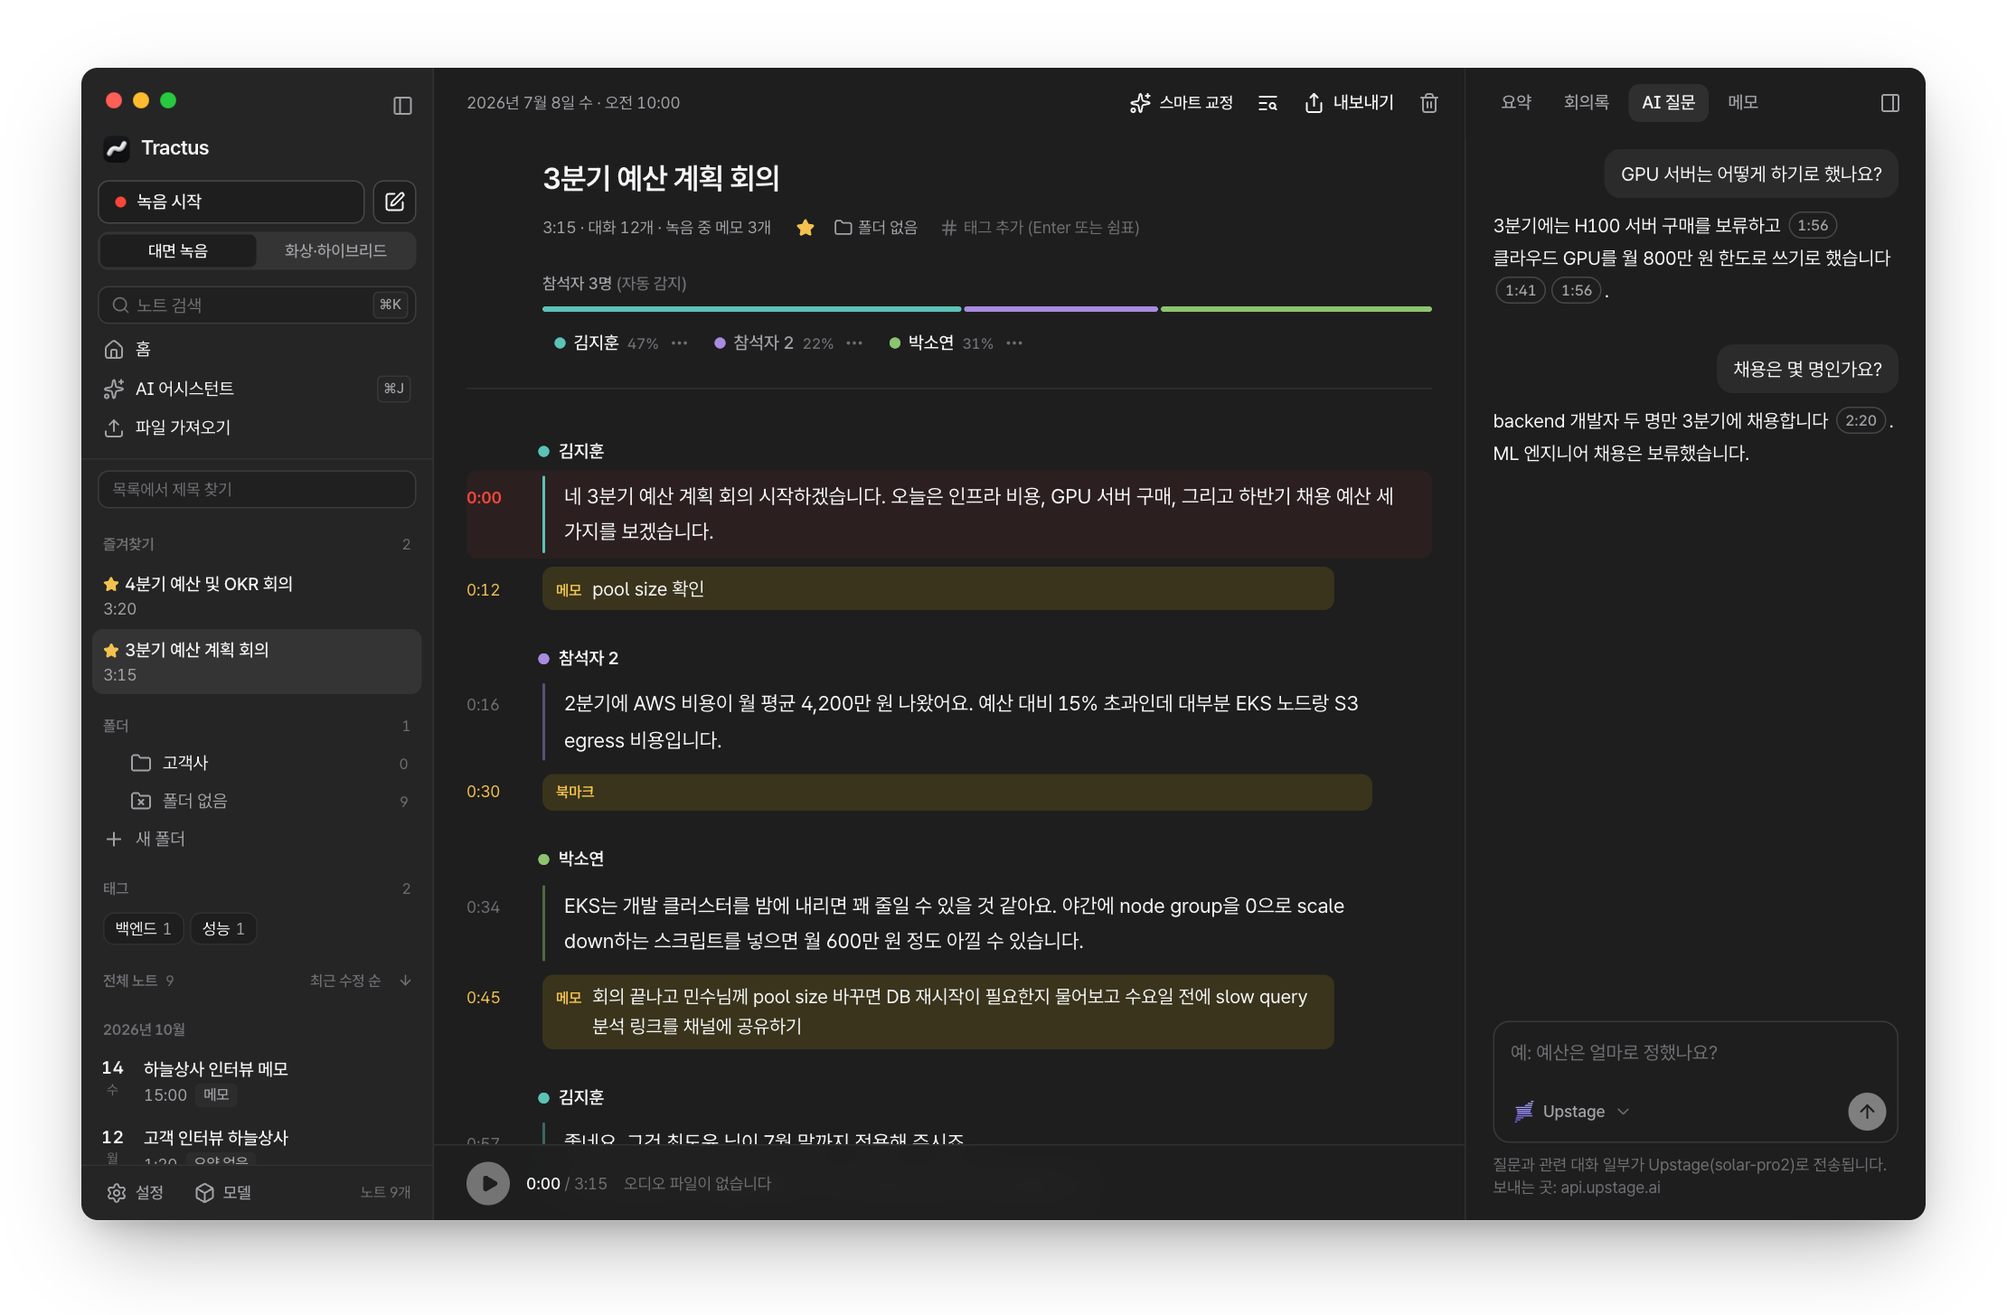
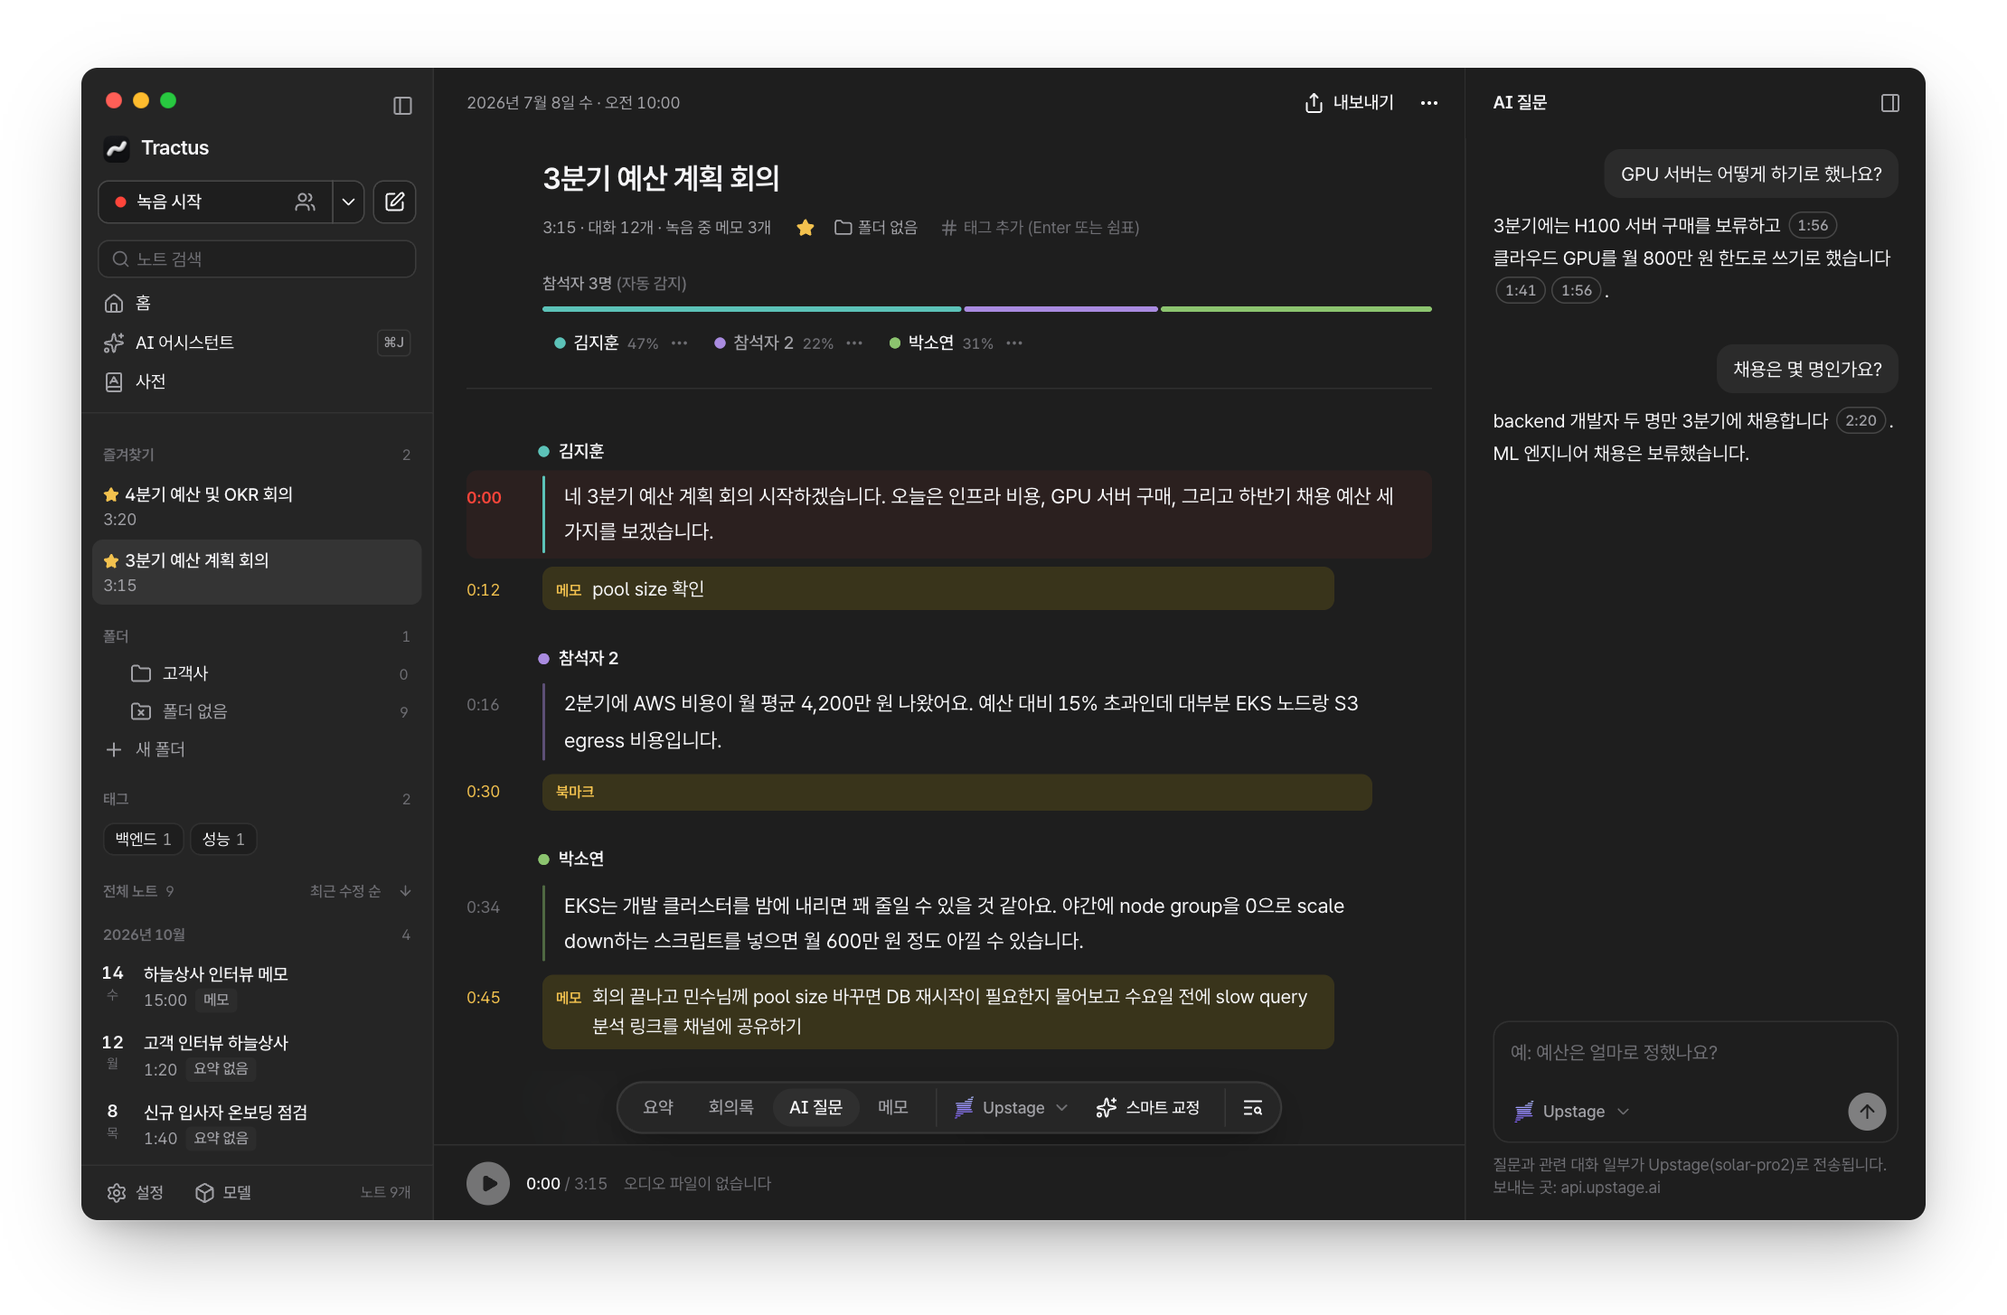
docs: 0.5.6 화면 변경에 맞춰 안내·README·스크린샷·데모 다시 맞추기
녹음 방식 ▾, 흐르는 파형, 홈 정리에 맞춰 사용 안내·desktop.md·README·사이트
그림 설명을 고치고 스크린샷과 데모 GIF를 다시 만든다. 영어 미리보기에 한국어
문구가 섞이던 것(언어를 정하기 전 week.ts import)도 고친다.

diff --git a/app/src/preview/main.tsx b/app/src/preview/main.tsx
@@ -3,7 +3,6 @@
 // 빌드(index.html)에는 들어가지 않는다. `?lang=en`이면 화면도 가짜 데이터도 영어다(README 영어 스크린샷·데모).
 import { emit } from "@tauri-apps/api/event";
 import { mockIPC, mockWindows } from "@tauri-apps/api/mocks";
-import { addDays, weekStart } from "../week";
 import dataKo from "./data/meetings.json";
 import doctorKo from "./data/doctor.json";
 import modelsKo from "./data/models.json";
@@ -312,9 +311,10 @@ const glossaryAdd = (terms: string[]) => {
 };
 
 /** 이번 주 화요일 9:30 (calendar_week의 데일리 스탠드업 s1) */
+// week.ts를 불러오지 않는다: 언어를 정하기(../main) 전에 앱 모듈을 불러오면 그 모듈의 문구 상수가 한국어로 굳는다
 const standupAt = () => {
-  const d = addDays(weekStart(new Date()), 1);
-  d.setHours(9, 30);
+  const now = new Date();
+  const d = new Date(now.getFullYear(), now.getMonth(), now.getDate() - ((now.getDay() + 6) % 7) + 1, 9, 30);
   return d.toISOString();
 };
 

diff --git a/site/index.html b/site/index.html
@@ -135,7 +135,7 @@
           <li>Light and dark mode, English and Korean UI, in-app updates</li>
         </ul>
       </div>
-      <figure><picture><source media="(prefers-color-scheme: dark)" srcset="assets/en/home-dark.png"><img src="assets/en/home-light.png" alt="Tractus home: quick actions, an upcoming calendar event and recent notes" width="2220" height="1455" loading="lazy"></picture></figure>
+      <figure><picture><source media="(prefers-color-scheme: dark)" srcset="assets/en/home-dark.png"><img src="assets/en/home-light.png" alt="Tractus home: an upcoming calendar event, this week and recent notes" width="2220" height="1455" loading="lazy"></picture></figure>
     </div>
   </section>
 

diff --git a/site/ko/index.html b/site/ko/index.html
@@ -134,7 +134,7 @@
           <li>라이트·다크 모드, 한국어·영어 화면, 앱 안 업데이트</li>
         </ul>
       </div>
-      <figure><picture><source media="(prefers-color-scheme: dark)" srcset="../assets/ko/home-dark.png"><img src="../assets/ko/home-light.png" alt="Tractus 홈: 빠른 동작과 최근 노트" width="2220" height="1455" loading="lazy"></picture></figure>
+      <figure><picture><source media="(prefers-color-scheme: dark)" srcset="../assets/ko/home-dark.png"><img src="../assets/ko/home-light.png" alt="Tractus 홈: 곧 시작하는 일정, 이번 주, 최근 노트" width="2220" height="1455" loading="lazy"></picture></figure>
     </div>
   </section>
 

diff --git a/ARCHITECTURE.md b/ARCHITECTURE.md
@@ -43,6 +43,7 @@
 | 2026-11-10 | v3.108 | **녹음 화면 소리 크기를 흐르는 파형으로(브랜치 `feat/level-wave`, 0.5.6 디자인 정리, 앱만).** 소유자 지적: 초록 가로 막대 + `-18 dB` 숫자가 단순하고 보기 좋지 않다. 고른 안은 음성 메모·ElevenLabs UI Live Waveform(MIT, shadcn 계열) 모양의 스크롤 파형이다(조사한 prompt-kit·assistant-ui·magicui·coss ui에는 오디오 레벨 부품이 없다). 부품을 들이지 않고 `LevelWave.tsx`가 tractus-rec의 `level` 이벤트(0.25초마다 dB)를 그린다. 첫 판(DOM 막대 60개를 이벤트마다 한 칸 밀기)은 소유자가 '뚝뚝 끊기고 그래픽이 별로'라 해서 canvas로 다시 했다: 매 프레임(rAF) 녹음 시계만큼 흐르고(일시정지면 멈춤), 화면을 0.3초 늦춰 두 값 사이를 smoothstep으로 이어 그린다(`waveValue`). 2px 막대 초당 14개, 왼쪽 35%는 mask로 흐려진다, 높이는 `levelFraction^1.6`(말소리와 쉼 대비, `levelHeight`). 색은 `text-foreground/80`(시스템 오디오는 옅게)을 30프레임마다 읽어 테마를 따른다. dB 숫자는 `title`로만, `role="meter"`·`aria-valuenow`는 그대로. 미리보기의 가짜 녹음이 0.25초마다 말소리 같은 레벨을 보낸다. 확인: tsc, vitest 838, 미리보기 다크. |
 | 2026-11-10 | v3.109 | **빈 상태 하나로(브랜치 `feat/empty-states`, 0.5.6 디자인 정리 5번, 앱만).** 요약 탭(점선 상자 + 아이콘 칩), 변환 전 노트(카드 + 아이콘 칩), 회의록 탭(왼쪽 정렬 긴 문장 하나), 인식된 대화 없음(제각각 여백)이 서로 다른 모양이었다. 새 부품 `components/ui/empty.tsx`(`Empty`: 제목 한 줄 + 짧은 설명 + 단추 하나까지, 상자·아이콘 칩 없이 가운데)로 맞췄다. 변환 전 노트는 진행·실패 칸이 함께 있어 부품 대신 상자와 아이콘만 걷었다. 회의록 빈 문장은 제목 `아직 회의록이 없습니다`와 설명으로 나눴다(i18n 키 둘). 부품 갤러리·DESIGN.md §4에 더했다. 목록 안의 빈 줄(사전·목소리·요약 유형)은 목록 모양이 맞아 그대로. 확인: tsc, vitest 838, 미리보기에서 요약·회의록 탭. |
 | 2026-11-10 | v3.110 | **AI 어시스턴트 다듬기(브랜치 `feat/ask-polish`, 0.5.6 디자인 정리 6번, 앱만, 기준 prompt-kit).** 입력창의 굵은 파란 초점 테두리(`ring-[3px]`)를 걷고 둥근 테두리가 진해지며 옅은 그림자가 생기게 했다(prompt-kit Prompt Input). 답이 오는 동안 끝에 깜빡이던 붉은 네모 커서를 지웠다(흐르는 글자가 이미 진행을 보인다). 기다리는 동안의 상태 글자(`준비 중…`·`관련 대화를 찾는 중…`·`답변 작성 중…`)에 빛이 지나간다(prompt-kit Text Shimmer, 기존 `animate-shine` 재사용, 움직임 줄이기면 보통 글자). 보내기 전 안내(`… 전송됩니다. 보내는 곳: {호스트}`)는 개인정보 안내라 줄이지 않았다(WORDS §6 6번 결정). 예시 질문 칩·질문 말풍선·인용 칩·`참고한 대화`는 이미 prompt-kit·assistant-ui와 같은 모양이라 그대로, 사이드바 그라데이션·반짝임도 그대로. 확인: tsc, vitest 838, 미리보기 서랍. |
+| 2026-11-10 | v3.111 | **0.5.6 문서·그림 다시 맞추기(브랜치 `docs/refresh-056`).** v3.104~v3.110 화면 변경에 맞춰 사용 안내(한·영: 녹음 방식 `▾`·흐르는 파형), docs/desktop.md 화면 표(사이드바 검색 하나·녹음 방식 `▾`·파형), README 두 벌과 소개 사이트의 그림 설명(홈 `빠른 동작` → 곧 시작하는 일정·이번 주·최근 노트, 녹음 `레벨 미터` → 흐르는 파형)을 고치고, README 스크린샷(한·영 각 12장)과 데모 GIF 두 벌을 다시 만들었다. 녹음 장면은 파형이 차도록 9초 기다린다(`readme-shots.mjs`). 다시 찍다가 찾은 것: 영어 미리보기에 `대면 녹음`·`일시정지`·`모델`이 한국어로 나왔다. 미리보기 진입 파일이 언어를 정하기(`../main`) 전에 `../week`를 정적으로 불러와 그 경로의 모듈 상수가 한국어로 굳었다. 실제 앱(`main.tsx`)은 언어를 먼저 정하므로 영향 없다. 미리보기에서 `week` import를 없앴다. |
 | 2026-10-30 | v3.78 | **한국어 파인튜닝 엔진을 8bit 변환본으로 교체(브랜치 `feat/univa-8bit`).** 0.5.2에 올린 `asr-ko-univa`가 원본 bf16(4.7GB)이었다(변환·업로드 위치를 정하지 않고 허브 원본을 그대로 등록했다). `mlx_audio.convert -q --q-bits 8 --q-group-size 64 --q-mode affine`로 변환해(표준 엔진과 같은 설정, `model.safetensors` 2,463,307,541바이트로 공식 Qwen3-ASR 1.7B 8bit와 같다) 소유자 계정에 `voyagar/Qwen3-ASR-1.7B-ko-mlx-8bit`(공개, Apache-2.0, 커밋 `8fcc32c4`, 모델 카드에 원 제작자·원본 revision·변환 명령)로 올리고 등록 목록을 바꿨다. ID `asr-ko-univa`·`level_note`는 그대로라 사용자가 고른 엔진 설정은 유지되고, 새 폴더(`qwen3-asr-1.7b-ko-8bit`)를 받을 때까지는 받아 둔 다른 엔진으로 변환한다. 0.5.2로 bf16을 받은 폴더(`qwen3-asr-1.7b-ko-bf16`)는 등록 밖이 되어 `models prune`으로 지운다. 간이 점검: 원본과 출력 차이 CER 2.5, 처리 시간 약 30% 단축(docs/design/asr-engines.md). |
 | 2026-10-30 | v3.77 | **0.5.2 릴리스 준비(브랜치 `fix/mic-config-change-crash`).** 버전 0.5.2를 다섯 매니페스트와 잠금 파일에 맞췄다. 0.5.1 이후: 한국어 파인튜닝 엔진 `asr-ko-univa` 등록과 모델 화면 변환 엔진 라디오 목록(v3.75), 장치 전환 중 녹음 프로그램 크래시 수정(v3.76, 이슈 #57). 릴리스 노트 `docs/releases/v0.5.2.md`, 로드맵 항목. |
 | 2026-10-30 | v3.76 | **녹음 중 입력 장치가 바뀌면 `tractus-rec`가 죽던 것(이슈 #57, 브랜치 `fix/mic-config-change-crash`).** `AVAudioEngineConfigurationChange` → `Recorder.restart` → `MicSource.open`의 `installTap`이 Objective-C 예외(NSException)를 던져 Swift `do/catch`를 지나 프로세스가 abort됐다(66분 녹음 중 크래시, `recording.json`의 `duration`이 null로 남음). ① `RecorderKit.micFormatProblem`: tap 전에 채널·표본 속도 0과 하드웨어 포맷 불일치를 오류로 던진다(`restart`의 경고와 watchdog 2초 재시도로 넘어감). 음성 처리(에코 제거) 중에는 두 포맷이 다를 수 있어 표본 속도 일치는 보지 않는다. ② `MicSource.stop()`마다 새 `AVAudioEngine`으로 바꾸고 관찰자를 다시 단다(장치가 바뀐 뒤 같은 엔진의 입력 노드가 낡은 포맷을 쥐는 것을 피함). ③ 새 SwiftPM 타깃 `ObjCCatch`(Objective-C, `TractusObjC.catching { }`)로 `installTap`을 감싸 NSException을 Swift 오류로 바꾼다(`recorder/`의 tools-version 5.10·플랫폼은 그대로). 이 Mac의 실제 마이크로 일반·에코 제거 녹음이 정상임은 확인했고, **실제 장치 전환(블루투스 연결·해제)은 재현하지 못했다.** 비정상 종료로 `duration`이 null인 녹음은 앱의 `변환 대기 중인 녹음`에 보이고 코어가 그대로 변환 전 노트로 저장한다는 것을 테스트로 고정했다. |

diff --git a/docs/usage.md b/docs/usage.md
@@ -14,7 +14,7 @@
 <details open>
 <summary><b>노트 만들기</b></summary>
 
-- **녹음:** `새 노트` › `녹음 시작`. 녹음 방식은 `대면 녹음`과 `화상·하이브리드`(시스템 소리 포함) 중에서 고릅니다. 녹음 중에 메모를 쓰거나 `B`로 북마크를 남기고, `일시정지`로 잠시 멈췄다가 `계속`할 수 있습니다(멈춘 시간은 녹음에 들어가지 않습니다). `녹음 종료`를 누르면 설정 `녹음을 끝내면`에 따라 이 Mac에서 바로 텍스트로 바꾸거나, 노트(`변환 전`)로 저장만 해 두었다가 나중에 노트의 `텍스트로 변환`으로 바꿉니다(기본은 끝낼 때마다 묻습니다).
+- **녹음:** `새 노트` › `녹음 시작`. 녹음 방식은 녹음 단추 오른쪽 `▾`에서 `대면 녹음`과 `화상·하이브리드`(시스템 소리 포함) 중에 고르고, 지금 방식은 단추 안 아이콘으로 보입니다. 녹음 화면에는 최근 15초의 소리 크기가 흐르는 파형으로 보여, 말소리가 잘 들어가는지 한눈에 확인할 수 있습니다. 녹음 중에 메모를 쓰거나 `B`로 북마크를 남기고, `일시정지`로 잠시 멈췄다가 `계속`할 수 있습니다(멈춘 시간은 녹음에 들어가지 않습니다). `녹음 종료`를 누르면 설정 `녹음을 끝내면`에 따라 이 Mac에서 바로 텍스트로 바꾸거나, 노트(`변환 전`)로 저장만 해 두었다가 나중에 노트의 `텍스트로 변환`으로 바꿉니다(기본은 끝낼 때마다 묻습니다).
 - **파일 가져오기:** `새 노트` › `파일 가져오기`, 또는 창에 파일을 끌어 놓습니다. 오디오와 동영상을 받습니다. 여러 파일은 차례로 변환합니다.
 - **처음 시작하기:** 홈의 `Tractus 시작하기` 목록이 모델 받기 → 예시 노트 → 첫 녹음 → 완성된 노트 보기를 차례로 안내합니다. 예시 노트는 녹음·모델 없이 바로 열어 보는 가상 회의라 대화 내용·요약·완성된 노트가 미리 들어 있습니다(검색과 AI 어시스턴트에는 나오지 않고, 필요 없으면 지우면 됩니다). 기능을 처음 쓸 때는 옆에 짧은 안내가 한 번씩 뜹니다. `설정` › `도움말`에서 다시 보거나 끌 수 있습니다.
 - **메모 쓰기:** `새 노트` › `글쓰기`(⌘N). 쓰는 대로 저장됩니다. 메모도 같은 노트라서 요약, AI 질문, 검색, 내보내기가 됩니다. 위치는 시각 대신 `3번째 줄`로 가리킵니다.

diff --git a/docs/en/usage.md b/docs/en/usage.md
@@ -14,7 +14,7 @@ How to create, refine and find notes in the app. Terminal commands are in [CLI](
 <details open>
 <summary><b>Creating notes</b></summary>
 
-- **Record:** `New note` › `Start recording`. Choose a `Recording mode`: `In person` or `Video call or hybrid` (includes system audio). While recording, you can write memos, press `B` to add a bookmark, and `Pause` and `Resume` (paused time isn't recorded). When you click `Stop recording`, the `After recording` setting decides whether the recording is transcribed on this Mac right away or saved as a note (`Not transcribed`) that you transcribe later with `Transcribe` in the note. By default, Tractus asks each time.
+- **Record:** `New note` › `Start recording`. Pick the recording mode from the `▾` next to the record button: `In person` or `Video call or hybrid` (includes system audio); the icon on the button shows the current mode. The recording screen shows the last 15 seconds of sound as a moving waveform, so you can see at a glance that your voice is coming through. While recording, you can write memos, press `B` to add a bookmark, and `Pause` and `Resume` (paused time isn't recorded). When you click `Stop recording`, the `After recording` setting decides whether the recording is transcribed on this Mac right away or saved as a note (`Not transcribed`) that you transcribe later with `Transcribe` in the note. By default, Tractus asks each time.
 - **Import a file:** `New note` › `Import file`, or drag a file onto the window. Audio and video files are supported. Multiple files are transcribed one after another.
 - **Getting started:** The `Get started with Tractus` list on Home walks you through downloading models → the sample note → your first recording → viewing an enhanced note. The sample note is a fictional meeting you can open right away, with no recording or models needed. It already has a transcript, a summary and an enhanced note. It doesn't appear in search or the AI assistant, and you can delete it when you no longer need it. The first time you use a feature, a short tip appears next to it once. You can see the tips again or turn them off in `Settings` › `Help`.
 - **Write a memo:** `New note` › `Write` (⌘N). Memos save as you type. A memo is a note like any other, so it can be summarized, used with Ask AI, searched and exported. Positions are shown as `Line 3` instead of a time.

diff --git a/README.md b/README.md
@@ -58,9 +58,9 @@ Speech recognition, speaker detection and search run on your Mac (Apple Silicon,
     <td width="50%">
       <picture>
         <source media="(prefers-color-scheme: dark)" srcset="docs/images/en/home-dark.png">
-        <img src="docs/images/en/home-light.png" alt="Home: quick actions and recent notes">
+        <img src="docs/images/en/home-light.png" alt="Home: upcoming event, this week and recent notes">
       </picture>
-      <p align="center"><b>Home</b> — record, write, import, recent notes</p>
+      <p align="center"><b>Home</b> — upcoming event, this week, recent notes</p>
     </td>
     <td width="50%">
       <picture>
@@ -76,7 +76,7 @@ Speech recognition, speaker detection and search run on your Mac (Apple Silicon,
         <source media="(prefers-color-scheme: dark)" srcset="docs/images/en/record-dark.png">
         <img src="docs/images/en/record-light.png" alt="Recording screen">
       </picture>
-      <p align="center"><b>Record</b> — level meter, bookmarks, timestamped memos</p>
+      <p align="center"><b>Record</b> — live waveform, bookmarks, timestamped memos</p>
     </td>
     <td width="50%">
       <picture>

diff --git a/README.ko.md b/README.ko.md
@@ -57,9 +57,9 @@
     <td width="50%">
       <picture>
         <source media="(prefers-color-scheme: dark)" srcset="docs/images/home-dark.png">
-        <img src="docs/images/home-light.png" alt="홈: 빠른 동작과 최근 노트 목록">
+        <img src="docs/images/home-light.png" alt="홈: 곧 시작하는 일정, 이번 주, 최근 노트">
       </picture>
-      <p align="center"><b>홈</b> — 녹음·작성·가져오기와 최근 노트 목록</p>
+      <p align="center"><b>홈</b> — 곧 시작하는 일정, 이번 주, 최근 노트</p>
     </td>
     <td width="50%">
       <picture>
@@ -75,7 +75,7 @@
         <source media="(prefers-color-scheme: dark)" srcset="docs/images/record-dark.png">
         <img src="docs/images/record-light.png" alt="녹음 화면">
       </picture>
-      <p align="center"><b>녹음</b> — 오디오 레벨 미터, 북마크, 타임스탬프 메모</p>
+      <p align="center"><b>녹음</b> — 흐르는 파형, 북마크, 타임스탬프 메모</p>
     </td>
     <td width="50%">
       <picture>
